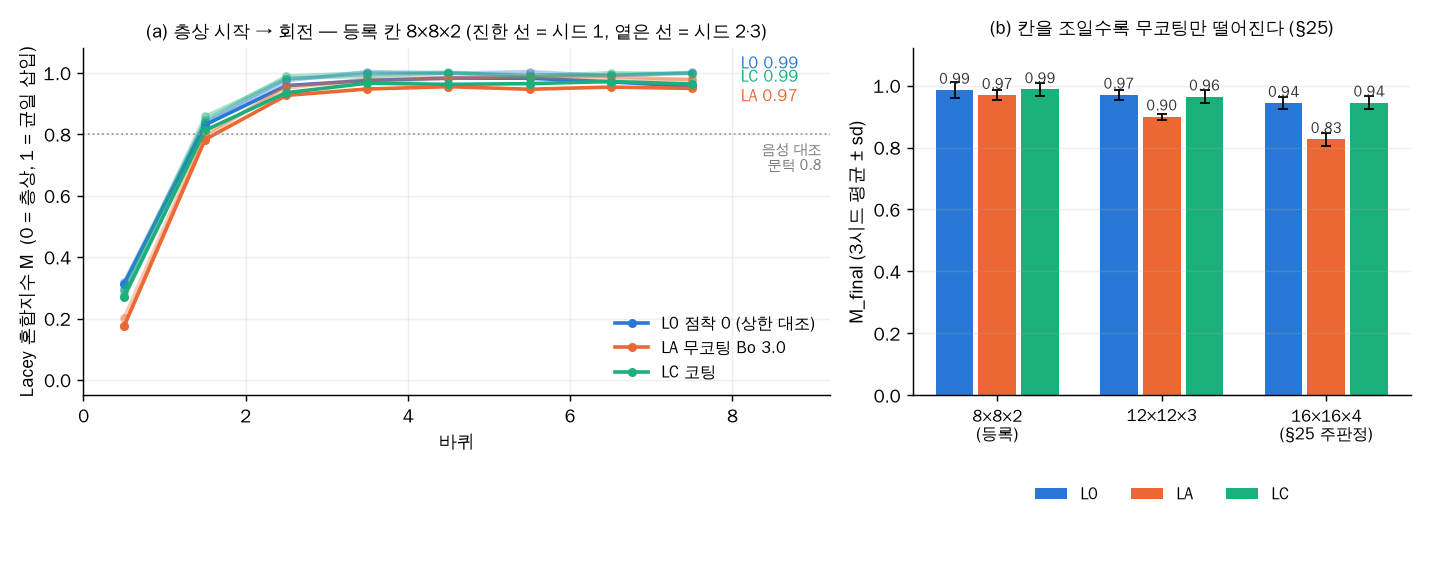
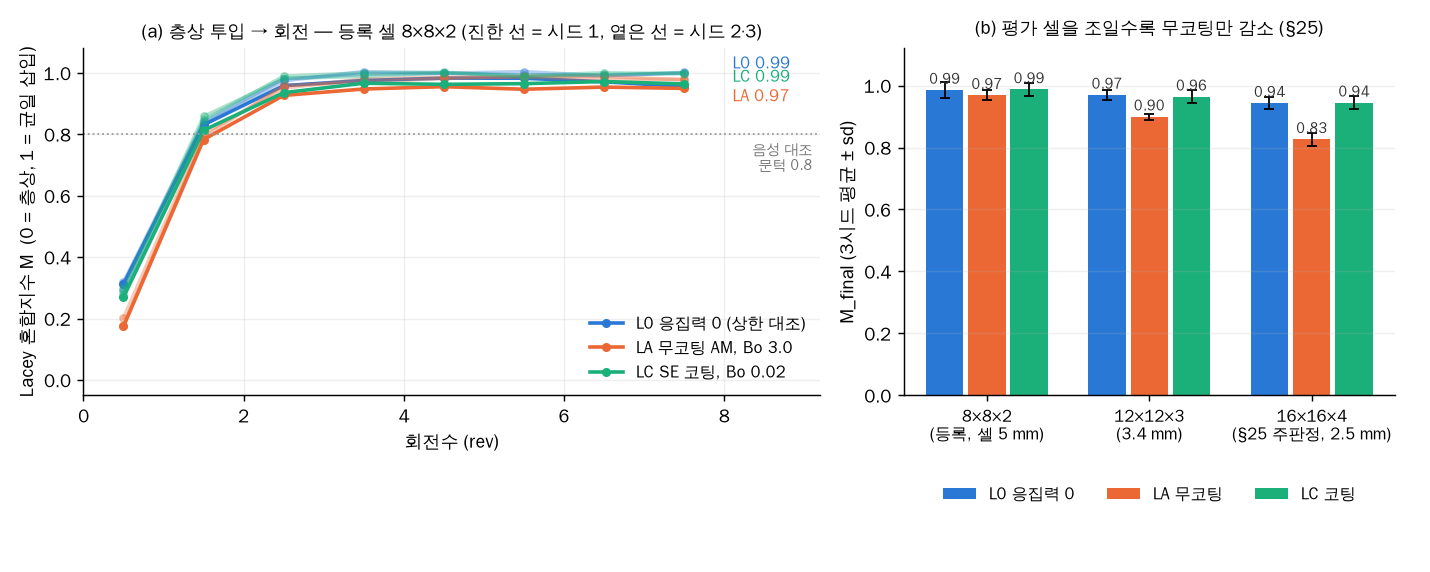
웹앱 믹서 개발 이력·주간 리포트 — 용어를 필드 규약(§19 vdW)으로 통일 + v0.8 요약 그림 + 사다리 그림 축 결함 수정
- docs/mixer_devlog v01~v07: "끈적함/덩어리/눈금·칸/섞이나" → 응집력(van der Waals 기원, SJKR) /
  응집체·플러그 / 평가 셀 / 혼합도(Lacey M). 수치·판정·한정어 불변
- docs/mixer_devlog/v08_20260921.md 신설: 용어 대응표 · vdW 물리 근거 · 코팅 배수(1/128 앵커, 1/900 E4) ·
  주간보고 요약 그림 (webapp/static/mixer/summary_v08.png = docs/figures/mixer_summary_20260920.png)
- webapp/static/mixer/ladder_HR_vs_Bo.png: 두 패널 sharex 로 위 패널 로그축이 선형으로 덮여 점이 왼쪽에
  뭉쳐 있던 표시 결함 수정(축 분리, 명시 눈금 0.01/0.1/1/10) + 필드 라벨
- webapp/static/mixer/mixing_v07.png: 라벨 필드 용어 (회전수 rev · 등록 셀 · 평가 셀 크기 5/3.4/2.5 mm)
- docs/worklog/weekly_20260920.md: 헤더·§6·그림 캡션 같은 규약으로 (9런 완주 반영)
- webapp/templates/mixer.html: 소개문 한 줄

게이트: check_all.sh --selftest RC 0 · check_all.sh RC 0 · mixer_devlog_page 9/9 · worklog_page PASS · doc_refs 0

Claude-Session: https://claude.ai/code/session_019HKnbzGsY9U5Gyw4qGqqzA

diff --git a/webapp/templates/mixer.html b/webapp/templates/mixer.html
@@ -38,7 +38,7 @@
   <h1>&#x1F300; 믹서 개발 이력</h1>
   <div class="mx-top">
     <p class="mx-note" style="margin:0;max-width:640px">
-      건식 믹싱 DEM(드럼 · 5상 · 점착 사다리)이 어떻게 발전했는지 <b>버전 누적</b>으로 본다.
+      건식 믹싱 DEM(드럼 · 5상 · 응집력(Bo) 사다리 · 층상 투입 혼합도)이 어떻게 발전했는지 <b>버전 누적</b>으로 본다.
       원본 <code>docs/mixer_devlog/vNN_YYYYMMDD.md</code> · 정본 <code>docs/reviews/mixing_model_design_20260919.md</code>.
       인용 금지값은 렌더 직전 <code>ledger_view.redact</code> 가 가린다.
     </p>

diff --git a/docs/worklog/weekly_20260920.md b/docs/worklog/weekly_20260920.md
@@ -3,8 +3,8 @@
 > **이번 주는 세 갈래가 동시에 갔다.**  ① Phase A 6 mAh 캠페인이 **봉인 이탈**(96팔이 `ptfe_stamp=off`)
 > 로 무너진 것을 진단해 재실행하고, 어댑터를 막던 영수증을 `.sh` 에서 되살리는 도구까지 놓았다.
 > ② 3라운드 갭 감사(GAP3)·LHS 코호트 130 봉인·PS 삽입 0개 사고를 **원인까지** 닫았다.
-> ③ **믹서 DEM 을 0 에서 v0.6 까지** 세웠다 — 점착 사다리로 흐름↔덩어리 경계(`Bo ≈ 0.5`)를 찾고,
-> 지금은 *"코팅하면 더 잘 섞이나"* 를 층상 시작으로 직접 재는 9런이 돌고 있다.
+> ③ **믹서 DEM 을 0 에서 v0.6 까지** 세웠다 — 응집력(Bo) 사다리로 자유 유동↔응집 전이(`Bo ≈ 0.5`)를 찾고,
+> *"코팅하면 혼합도가 오르나"* 를 층상 투입 + Lacey 혼합지수로 직접 쟀다 (9런 완주, §26).
 > 새 σ 헤드라인은 **없다**.  숫자를 낸 곳은 전부 사전등록 뒤에 냈고, 못 낸 곳은 왜 못 내는지 적었다.
 
 ## 실행 요약
@@ -52,7 +52,7 @@
 정본 `docs/reviews/mixing_model_design_20260919.md` §1~§24 · 원장 `MIX-01~10` · 웹앱 `/mixer`.
 
 - **09-19 뼈대**: 드럼(`R_d` 20.56 mm, 60 rpm, `Fr` 0.083) · 5상 80:18:1:1 · CGF 200 · SJKR.  첫 런은 네 군데가 틀렸다 — `fix multisphere` 가 평범한 구를 안 움직임(47,309개 조각상, `MIX-01`) · 지표 축 z 고정(`MIX-02`) · 정착 상수(`MIX-03`) · 점착 사다리가 접촉모델 밖(`MIX-04`).  전부 재현 테스트 먼저 놓고 고쳤다.
-- **사다리 판정 h1** (§13): AM 축 점착이 `H/R` 을 126·SE_시드 움직이고 SE 축은 1.4·SE_시드 — 뭉침은 **크고 무거운 AM 표면**이 정한다.
+- **사다리 판정 h1** (§13): AM 축 점착이 `H/R` 을 126·SE_시드 움직이고 SE 축은 1.4·SE_시드 — 응집은 **크고 무거운 AM 의 표면 부착력**이 정한다.
 - **코팅·장비·vdW** (§16~§21): 코팅(AM 표면 = SE)은 다시 흐르게 한다.  실제 장비가 Thinky(~2000 rpm)라 중력이 아니라 **점착을 1/G** 로(1저자 정정: 영률 1e7 은 스케일 팩터).  문헌 앵커 `Bo ≈ 3`(`hare2026` NMC622, CGF 200).  ⛔ 그리고 **믹싱을 잰 적이 없었다**(`MIX-08`, 침대가 처음부터 섞여 시작) — 이전 결론은 전부 유동성 축으로 라벨을 고쳤다.
 - **경계** (§22): 사다리 전수 `E0 1.491 · C1 1.569 · T1 1.527 · E1 1.573 · T2 1.750 · B5 1.855 · B10 2.006 · E2 2.020 · E4 2.016`.  답은 평균이 아니라 **요동** — 런내부 sd 가 Bo 0.47~0.50 에서 5배 봉우리 ⇒ **경계 ≈ Bo 0.5** (4점 격자, 폭 (0.21, 1.00)).  `H/R` 은 Bo ≳ 1 에서 천장(`MIX-09`).  두 벌 읽기: Thinky 1/6.3(우리 E4 기준)·1/45(앵커) · 볼텍스 0.94(E4)·1/7.5(앵커) · 코팅 1/21.  ⇒ **유동성 축에서는 Thinky 면 코팅 불요**.
 <figure>
@@ -74,13 +74,13 @@
     <text x="260" y="200" text-anchor="middle">E1 .21</text><text x="320" y="130" text-anchor="middle">T2 .47</text><text x="352" y="82" text-anchor="start">B5 .50</text>
     <text x="388" y="72" text-anchor="middle">B10 1</text><text x="440" y="70" text-anchor="middle">E2 2.1</text><text x="630" y="70" text-anchor="middle">E4 21</text>
   </g>
-  <text x="336" y="24" font-size="9.5" text-anchor="middle" fill="#d95926">요동 최대 (런내부 sd ×5)</text>
+  <text x="336" y="24" font-size="9.5" text-anchor="middle" fill="#d95926">런내부 변동 최대 (sd ×5)</text>
 </svg>
-<figcaption>믹서 점착 사다리 (§22, 시드 3 평균). 흐름(H/R ≈ 1.5) → 전이(Bo 0.21~1.00, 요동 최대 Bo 0.47~0.50) → 덩어리(H/R 천장 ≈ 2.02). 코팅 C1 과 Thinky T1 은 전이 아래, 문헌 앵커 NMC(Bo ≈ 3)는 위.</figcaption>
+<figcaption>믹서 응집력(Bo) 사다리 (§22, 시드 3 평균). 자유 유동(H/R ≈ 1.5) → 전이(Bo 0.21~1.00, 런내부 변동 최대 Bo 0.47~0.50) → 응집체(H/R 천장 ≈ 2.02). 코팅 C1 과 Thinky T1 은 전이 아래, 문헌 앵커 NMC(Bo ≈ 3)는 위.</figcaption>
 </figure>
 
-- **자기리뷰** (§23): 축은 맞았고 **순서가 틀렸다** — "섞이나"와 "장비가 뭔가"를 먼저 물었으면 128팔이 믹싱 지수를 같이 냈고 배플 12팔은 없었다.  `Bo` 정의가 문헌(JKR pull-off)과 다르다(`MIX-07` 추기) · 경계 0.5 는 충전율 9.8 %·Fr 한 점(`MIX-10`).  PTFE·VGCF 는 영률·마찰·점착 전 상 공통 + 강체 사슬 = **수동 필러** — PTFE 피브릴화는 LIGGGHTS 강체로 불가(LAMMPS 결합 사슬은 보고 뒤 병행).
-- **v0.6 진행 중** (§24, 1저자 비준): 헤드라인 = *"코팅하면 더 잘 섞이나"*.  층상 시작(아래 AM · 위 SE+섬유), `LA` 무코팅 Bo 3.0(앵커) vs `LC` 코팅 vs `L0`, 시드 3 · 8바퀴 · Lacey `M`.  스모크에서 RSA 잼 결함을 잡아 삽입 순서를 재설계(AM 원통 전체→정착→SE 를 위에), `S₀² = 10 × S_R²`, `M(t0) = 0` 확인.  **9런 완주 → 판정(§26)**: 등록 칸(5 mm)에선 코팅↔무코팅 차이 0.02(애매), 사전등록 칸 사다리 주판정(2.5 mm)에서 **Δ 0.12 = h1** — 무코팅 Bo 3.0 은 몇 알짜리 AM 덩어리를 남기고 코팅은 점착 0 과 같다.
+- **자기리뷰** (§23): 축은 맞았고 **순서가 틀렸다** — "혼합되는가"와 "실제 장비가 무엇인가"를 먼저 물었으면 128팔이 혼합지수를 같이 냈고 배플 12팔은 없었다.  `Bo` 정의가 문헌(JKR pull-off)과 다르다(`MIX-07` 추기) · 경계 0.5 는 충전율 9.8 %·Fr 한 점(`MIX-10`).  PTFE·VGCF 는 영률·마찰·점착 전 상 공통 + 강체 사슬 = **수동 필러** — PTFE 피브릴화는 LIGGGHTS 강체로 불가(LAMMPS 결합 사슬은 보고 뒤 병행).
+- **v0.6 진행 중** (§24, 1저자 비준): 헤드라인 = *"코팅하면 혼합도가 오르나"*.  층상 투입(아래 AM · 위 SE+VGCF+PTFE), `LA` 무코팅 Bo 3.0(앵커) vs `LC` 코팅 vs `L0`, 시드 3 · 8바퀴 · Lacey `M`.  스모크에서 RSA 잼 결함을 잡아 삽입 순서를 재설계(AM 원통 전체→정착→SE 를 위에), `S₀² = 10 × S_R²`, `M(t0) = 0` 확인.  **9런 완주 → 판정(§26)**: 등록 칸(5 mm)에선 코팅↔무코팅 차이 0.02(애매), 사전등록 칸 사다리 주판정(2.5 mm)에서 **Δ 0.12 = h1** — 무코팅 Bo 3.0 은 입자 몇 개 규모의 AM 응집체를 남기고 코팅은 응집력 0 과 같다.
 
 ## 7. 웹앱
 

diff --git a/docs/mixer_devlog/v07_20260920.md b/docs/mixer_devlog/v07_20260920.md
@@ -1,24 +1,24 @@
-# v0.7 — 처음으로 "섞이나"를 쟀다: 코팅은 덩어리를 푼다 (2026-09-20 밤)
+# v0.7 — 처음으로 혼합도를 쟀다: 코팅은 입자 스케일 응집체를 해소한다 (2026-09-20 밤)
 
-> 9런 완주. 침대 규모에선 코팅이나 무코팅이나 8바퀴면 다 섞이지만, **AM 한 개 크기 규모에서는 무코팅만 덩어리가 남고 코팅은 점착 0 과 같다** (사전등록 §25, h1, Δ 0.12).
+> 9런 완주. 거시 스케일에선 코팅·무코팅 모두 8 rev 에 완전 혼합에 이르지만, **AM 입자 스케일에서는 무코팅만 응집체가 잔존하고 코팅은 응집력 0 과 같다** (사전등록 §25, h1, ΔM 0.12).
 
 ## 쉬운 판
 
-아래에 활물질, 위에 전해질을 층으로 넣고 8바퀴 돌리며 얼마나 섞였는지(0 = 안 섞임, 1 = 완전 혼합)를 셌다.
-큰 눈금(5 mm 칸)으로 보면 셋 다 0.97~0.99 로 **다 섞인다** — 여기서는 코팅 효과가 안 보인다.
-그런데 눈금을 활물질 한 알 크기(2.5 mm)로 조이면, **무코팅은 0.83 에서 멈추고 코팅은 0.95** 로 점착 없는
-경우와 같다. 즉 끈적한 활물질은 몇 알짜리 **작은 덩어리**를 8바퀴 뒤에도 남기고, 코팅은 그걸 푼다.
+아래에 AM 층, 위에 SE 층으로 투입하고 8 rev 회전시키며 Lacey 혼합지수 M(0 = 층상 그대로, 1 = 완전 혼합)을 쟀다.
+거시 평가 셀(5 mm)로 보면 세 조건 모두 0.97~0.99 로 **완전 혼합에 가깝다** — 여기서는 코팅 효과가 보이지 않는다.
+그런데 평가 셀을 AM 입자 스케일(2.5 mm)로 조이면, **무코팅은 M 0.83 에서 멈추고 코팅은 0.95** 로 응집력 0 인
+기준 조건과 같다. 즉 무코팅 AM(Bo 3)은 입자 몇 개 규모의 **응집체**를 8 rev 뒤에도 남기고, 코팅은 그것을 해소한다.
 
-이 눈금은 첫 시드를 보고 고른 것이라, 나머지 두 시드를 **열기 전에** 판정선을 등록해 두고 열었다. 그 둘만으로도
+이 평가 셀은 첫 시드를 보고 고른 것이라, 나머지 두 시드를 **열기 전에** 판정선을 등록해 두고 열었다. 그 둘만으로도
 같은 결론이다.
 
-<figure><img src="/static/mixer/mixing_v07.png" alt="M(t) 곡선과 칸 사다리"><figcaption>(a) 바퀴별 혼합지수 — 셋 다 2~3바퀴면 포화. (b) 칸을 조일수록 무코팅(주황)만 떨어진다; 점착 0(파랑)과 코팅(아쿠아)은 유지.</figcaption></figure>
+<figure><img src="/static/mixer/mixing_v07.png" alt="M(t) 곡선과 셀 사다리"><figcaption>(a) rev 별 Lacey 혼합지수 — 세 조건 모두 2~3 rev 에 포화. (b) 평가 셀을 조일수록 무코팅(주황)만 감소; 응집력 0(파랑)과 코팅(아쿠아)은 유지.</figcaption></figure>
 
 ## 자세한 판
 
-- §24 등록 칸 8×8×2: `L0` 0.986 · `LA` 0.969 · `LC` 0.987, `LC−LA` +0.019 (SE 0.011) → **애매**(h1 문턱 0.30 미달). 음성대조·바닥 통과.
-- §25 칸 사다리 (시드 2·3 미열람 등록, 주판정 16×16×4/6): `L0` 0.943 · `LA` **0.826** · `LC` 0.945, `LC−LA` **+0.118** (SE 0.012) → **h1**; 미열람 시드 2·3 만 +0.114 (SE 0.020) → h1. `LA` 단조 감소 0.969→0.900→0.826, `L0`/`LC` ≥ 0.90 전 칸.
-- 입자 규모 AA/AS 는 9런 전부 0.23~0.27(균일 기준 0.266) — 접촉 규모에선 완전 분산. 효과는 **중간 규모**에 있다.
-- 기준 `S_R²` = 같은 시드의 균일 삽입 `E0`(시드 2·3 은 2바퀴 신규, 원자 7999 vs 8002).
-- 한정어: 칸은 시드 1 을 보고 골랐다(설계 실수로 기록) · 저-G 드럼 조건 · `Bo 3.0` 정의 O(1) · PTFE/VGCF 수동 필러 · 절대 `M` 은 칸 간 비교 불가.
-- 원장: `MIX-08`(믹싱을 잰 적 없음) → claimed_fixed.
+- §24 등록 셀 8×8×2: `L0` 0.986 · `LA` 0.969 · `LC` 0.987, `LC−LA` +0.019 (SE 0.011) → **애매**(h1 문턱 0.30 미달). 음성대조·바닥 통과.
+- §25 셀 사다리 (시드 2·3 미열람 등록, 주판정 16×16×4/6): `L0` 0.943 · `LA` **0.826** · `LC` 0.945, `LC−LA` **+0.118** (SE 0.012) → **h1**; 미열람 시드 2·3 만 +0.114 (SE 0.020) → h1. `LA` 단조 감소 0.969→0.900→0.826, `L0`/`LC` ≥ 0.90 전 셀.
+- 접촉 스케일 AA/AS 는 9런 전부 0.23~0.27(균일 기준 0.266) — 접촉 스케일에선 완전 분산. 효과는 **중간 스케일(입자 몇 개)** 에 있다.
+- 기준 `S_R²` = 같은 시드의 균일 삽입 `E0`(시드 2·3 은 2 rev 신규, 원자 7999 vs 8002).
+- 한정어: 셀은 시드 1 을 보고 골랐다(설계 실수로 기록) · 저-G 드럼 조건 · `Bo 3.0` 정의 O(1) · PTFE/VGCF 수동 필러 · 절대 `M` 은 셀 간 비교 불가.
+- 원장: `MIX-08`(혼합도를 잰 적 없음) → claimed_fixed.

diff --git a/docs/mixer_devlog/v03_20260920.md b/docs/mixer_devlog/v03_20260920.md
@@ -1,25 +1,25 @@
-# v0.3 — 코팅 · 실제 장비(Thinky) · 반데르발스로 다시 세우기 (2026-09-20)
+# v0.3 — 코팅 · 실제 장비(Thinky) · van der Waals 로 다시 세우기 (2026-09-20)
 
-> 코팅은 침대를 다시 흐르게 한다. Thinky(268 G) 는 코팅 없이도 흐른다. **그리고 우리는 "섞이나"를 아직 잰 적이 없었다.**
+> 코팅은 침대의 유동성을 회복시킨다. Thinky(268 G) 는 코팅 없이도 유동한다. **그리고 우리는 혼합도를 아직 잰 적이 없었다.**
 
 ## 쉬운 판
 
-세 가지를 한 번에 했다. ① 활물질 표면을 황화물로 코팅하면(표면이 전해질처럼 됨) 덩어리가 풀려
-**다시 흐른다**. ② 실제로 쓰는 장비는 60 rpm 드럼이 아니라 **Thinky(약 2000 rpm)** 라는 것을
-알게 돼서, 중력 대신 점착을 1/268 로 낮춰 같은 물리로 맞췄다 — Thinky 조건에선 코팅 없이도 흐른다.
-③ "끈적하다"는 말을 **반데르발스/표면에너지**로 바꾸고 문헌(`hare2026`, NMC622 · CGF 200)에서
-`Bo ≈ 3` 앵커를 찾았다.
+세 가지를 한 번에 했다. ① AM 표면을 황화물 SE 로 코팅하면(표면 물성이 SE 가 됨) 응집체가 풀려
+**자유 유동으로 돌아온다**. ② 실제 공정 장비는 60 rpm 드럼이 아니라 **Thinky 자전·공전 믹서(약 2000 rpm, 268 G)** 라는 것을
+확인해, 중력을 올리는 대신 Bo 를 1/268 로 낮춰 같은 무차원 물리로 맞췄다 — Thinky 조건에선 코팅 없이도 유동한다.
+③ 응집력의 기원을 **van der Waals 분산력(표면에너지 γ, Hamaker 상수)** 으로 명시하고, 문헌(`hare2026`, NMC622 · CGF 200)에서
+`Bo ≈ 3` 앵커를 찾았다. 우리 모델은 JKR 이 아니라 SJKR 이므로 γ 를 직접 넣지 않고 **Bo 로 앵커**한다.
 
 그런데 이 시점에 1저자 질문 *"우리가 보고 싶은 걸 볼 수 있는 거야?"* 로 큰 구멍이 드러났다:
-침대를 **처음부터 섞인 상태로 넣고** 돌렸기 때문에, 지금까지 잰 건 "뭉치나/흐르나"이지
-**"섞이나"가 아니었다**. 이건 v0.6 에서 고친다.
+침대를 **처음부터 균일 혼합 상태로 삽입**하고 회전시켰기 때문에, 지금까지 잰 것은 유동성(응집 여부)이지
+**혼합도가 아니었다**. 이것은 v0.6 에서 고친다.
 
-<figure><img src="/static/mixer/bed_C1.png" alt="C1"><figcaption>C1 코팅 — 흐른다.</figcaption></figure>
-<figure><img src="/static/mixer/bed_T1.png" alt="T1"><figcaption>T1 Thinky 268 G 조건 — 흐른다.</figcaption></figure>
+<figure><img src="/static/mixer/bed_C1.png" alt="C1"><figcaption>C1 SE 코팅 — 자유 유동.</figcaption></figure>
+<figure><img src="/static/mixer/bed_T1.png" alt="T1"><figcaption>T1 Thinky 268 G 조건 — 자유 유동.</figcaption></figure>
 
 ## 자세한 판
 
 - 코팅 `C1`: AM 쌍 CED 를 SE-SE 값으로 **덮어쓴다**(입자 크기·질량 불변 → `Bo` 는 따라 나온다). 결과 `Bo` 0.0235. 등록 검정은 `E1` 대비 h0(0.57·SE)이나 `E4→C1` 로는 범위의 85 % 회복, `core_frac` ×1/24.
 - 고-G: 1저자 정정 — 영률 1e7 은 임의 연화가 아니라 **스케일 팩터**(압축 덱이 `P/E` 를 보존). 중력을 올리면 `Π₁ = ρaR/E` 가 5.7e-6 → 1.5e-3 로 실제(5.4e-10)에서 **멀어진다** ⇒ `Bo` 만 1/G. `T1`(Thinky, Bo 0.079) 1.527 · `T2`(볼텍스 45 G, Bo 0.472) 1.750 · `E4` 2.016 — 단조.
 - vdW 재정박: `hare2026` γ 0.25 J/m² → Bo 3.0, `frankenberg2024` Γ 0.0045 → Bo 3.3. γ 는 55배 달라도 Bo 는 같은 대역 ⇒ 전이 대상은 **Bo**. ⚠ 우리는 SJKR 이라 γ 를 못 넣고 `MIX-07` 로 등재.
-- `MIX-08`(P1): 삽입이 `insert/pack … once` 로 5 상을 한꺼번에 무작위 배치 → t=0 이 이미 완전혼합(칸별 AM 분율 sd 0.0383). **"섞이나"는 잰 적 없음.** 이 이전의 모든 결론은 유동성 축으로 라벨을 고쳤다.
+- `MIX-08`(P1): 삽입이 `insert/pack … once` 로 5 상을 한꺼번에 무작위 배치 → t=0 이 이미 완전혼합(셀별 AM 분율 sd 0.0383). **혼합도는 잰 적 없음.** 이 이전의 모든 결론은 유동성 축으로 라벨을 고쳤다.

diff --git a/docs/mixer_devlog/v04_20260920.md b/docs/mixer_devlog/v04_20260920.md
@@ -1,25 +1,25 @@
-# v0.4 — 경계를 찾다: 전이는 Bo ≈ 0.5 (2026-09-20)
+# v0.4 — 전이점을 찾다: 자유 유동 → 응집 전이는 Bo ≈ 0.5 (2026-09-20)
 
-> 흐름 → 덩어리의 경계가 **Bo ≈ 0.5**. 그 자에 놓으면 Thinky 는 6배 여유, 코팅은 21배 여유, 볼텍스는 경계 위.
+> 자유 유동 → 응집체의 전이가 **Bo ≈ 0.5**. 이 척도에서 Thinky 는 6배 여유, 코팅은 21배 여유, 볼텍스는 전이 위.
 
 ## 쉬운 판
 
-끈적함을 조금씩 올리며 어디서부터 덩어리가 되는지 찾았다. 답을 준 건 평균이 아니라 **흔들림**이었다 —
-경계 근처(Bo 0.47~0.5)에서는 같은 조건인데 어떤 시드는 흐르고 어떤 시드는 뭉쳐서, 산포가 5배로 튄다.
-그 위(Bo 1)에서는 다시 조용해진다(전부 뭉침). 그래서 경계는 **Bo ≈ 0.5**.
+Bo 를 단계적으로 올리며 어디서부터 침대가 응집체로 바뀌는지 찾았다. 답을 준 것은 평균이 아니라 **런내부 변동**이었다 —
+전이 근처(Bo 0.47~0.5)에서는 같은 조건인데 어떤 시드는 유동하고 어떤 시드는 응집해, 변동이 5배로 뛴다.
+그 위(Bo 1)에서는 다시 조용해진다(전부 응집). 그래서 전이점은 **Bo ≈ 0.5**.
 
-이 자에 장비를 놓으면: **Thinky 는 안전(6배 아래)**, 코팅도 안전(21배 아래), 볼텍스는 우리 팔 기준으론
-경계 위지만 문헌 앵커 기준이면 7.5배 여유 — 두 벌로 읽어야 한다. 그리고 **코팅은 유동성 축에서는
-필요 없다는 결과**가 나왔다: Thinky 면 코팅 없이도 안 뭉친다. (⇒ 코팅의 진짜 값은 "섞이나" 축에 있어야
+이 척도에 장비를 놓으면: **Thinky 는 안전(6배 아래)**, 코팅도 안전(21배 아래), 볼텍스는 우리 팔 기준으론
+전이 위지만 문헌 앵커 기준이면 7.5배 여유 — 두 기준으로 읽어야 한다. 그리고 **유동성 축에서는 코팅이
+필요 없다는 결과**가 나왔다: Thinky 조건이면 코팅 없이도 응집하지 않는다. (⇒ 코팅의 진짜 값은 혼합도 축에 있어야
 한다 — v0.6)
 
-<figure><img src="/static/mixer/ladder_HR_vs_Bo.png" alt="H/R vs Bo 사다리"><figcaption>위: 점착 사다리 전수(시드 3, 오차막대 = 시드 sd). 노란 띠 = 전이 구간 (0.21, 1.00). 아래: 런내부 sd — Bo 0.47~0.50 에서 5배 봉우리.</figcaption></figure>
-<figure><img src="/static/mixer/bed_B5.png" alt="B5"><figcaption>B5 (Bo 0.5) — 경계 위의 침대. 시드마다 다르게 나온다.</figcaption></figure>
+<figure><img src="/static/mixer/ladder_HR_vs_Bo.png" alt="H/R vs Bo 사다리"><figcaption>위: 응집력 사다리 전수(시드 3, 오차막대 = 시드 sd). 노란 띠 = 전이 구간 (0.21, 1.00). 아래: 런내부 sd — Bo 0.47~0.50 에서 5배 봉우리.</figcaption></figure>
+<figure><img src="/static/mixer/bed_B5.png" alt="B5"><figcaption>B5 (Bo 0.5) — 전이점 위의 침대. 시드마다 다르게 나온다.</figcaption></figure>
 
 ## 자세한 판
 
 - 사다리(측정 규약 `--r-container 0.02056 --axis x --last 100`): E0 1.4911 · C1 1.5686 · T1 1.5271 · E1 1.5729 · T2 1.7499 · **B5 1.8552(시드 sd 0.0975)** · B10 2.0061 · E2 2.0197 · E4 2.0164.
 - 런내부 sd: 0.0196 → 0.0375 → **0.1880 · 0.1719** → 0.0335 → 0.0046 → 0.0036 — 비단조, 봉우리 Bo 0.47~0.50. ⛔ 격자 4점이라 "0.5" 는 봉우리 두 점이고 폭은 (0.21, 1.00) 까지만.
 - `MIX-09`(P2): `H/R` 은 Bo ≳ 1 에서 천장(2.006 / 2.020 / 2.016, Bo 21배에 0.7 %). 같은 구간 `core_frac` 0.129 → 0.210 → 1.599(12배). ⇒ Bo ≳ 1 보고는 `core_frac` 으로.
-- 두 벌 읽기: 우리 `E4` 점착은 앵커의 7.08배. Thinky 1/6.3(보수)·1/45(앵커) · 볼텍스 0.94배(보수)·1/7.5(앵커) · 코팅 1/21 · 앵커 NMC 드럼 6배 초과.
+- 두 기준 읽기: 우리 `E4` 응집력은 앵커의 7.08배. Thinky 1/6.3(보수)·1/45(앵커) · 볼텍스 0.94배(보수)·1/7.5(앵커) · 코팅 1/21 · 앵커 NMC 드럼 6배 초과.
 - 코팅 감소 배수 **128배(앵커) / 900배(E4)** — Thinky 면 코팅 없이도 6.3배 아래 ⇒ 유동성 축에서 코팅 불요.

diff --git a/docs/mixer_devlog/v06_20260920.md b/docs/mixer_devlog/v06_20260920.md
@@ -1,24 +1,24 @@
-# v0.6 — 드디어 "섞이나"를 잰다: 층상 시작 + Lacey (2026-09-20)
+# v0.6 — 드디어 혼합도를 잰다: 층상 투입 + Lacey 혼합지수 (2026-09-20)
 
-> 헤드라인을 **"코팅하면 더 잘 섞인다"** 로. 무코팅(Bo 3.0, 문헌 앵커) vs 코팅, 층으로 넣고 8바퀴. 스모크 통과, 본 런 9개 대기.
+> 헤드라인을 **"코팅하면 혼합도가 오른다"** 로. 무코팅(Bo 3.0, 문헌 앵커) vs 코팅, 층상 투입 후 8 rev. 스모크 통과, 본 런 9개 대기.
 
 ## 쉬운 판
 
-1저자 비준으로 방향을 정했다: 응집체가 깨지는 과정 얘기는 빼고, **"코팅하면 더 잘 섞이나"가 가장 극적으로
-보이는 조건**을 보여 준다. 그러려면 무코팅이 섞이기 어려운 조건이어야 하니, 경계 위인 **문헌 앵커
-Bo 3.0(저-G 믹서에서의 실제 NMC)** 을 무코팅으로 쓴다.
+1저자 비준으로 방향을 정했다: 응집체 파괴 과정은 빼고, **"코팅하면 혼합도가 오르나"가 가장 극적으로
+보이는 조건**을 보여 준다. 그러려면 무코팅이 혼합되기 어려운 조건이어야 하니, 전이점 위인 **문헌 앵커
+Bo 3.0(저-G 믹서에서의 실제 NMC 수준)** 을 무코팅 조건으로 쓴다.
 
-이번엔 처음부터 섞어 넣지 않는다. **아래에 활물질, 위에 전해질+섬유**를 층으로 넣고 돌리면서
-얼마나 빨리 섞이는지(Lacey 지수, 0 = 안 섞임, 1 = 완전 혼합)를 바퀴마다 잰다.
-시험 런에서 층이 제대로 만들어졌고(분리 지표가 무작위의 10배), 회전 시작 직후 지수가 0 인 것을 확인했다.
+이번엔 처음부터 균일 혼합으로 삽입하지 않는다. **아래에 AM 층, 위에 SE+VGCF+PTFE 층**으로 투입하고 회전시키면서
+혼합도(Lacey 혼합지수 M, 0 = 층상 그대로, 1 = 완전 혼합)를 매 rev 마다 잰다.
+스모크 런에서 층이 제대로 형성됐고(층상 분리 지표가 균일 삽입의 10배), 회전 시작 직후 M = 0 인 것을 확인했다.
 
-<figure><img src="/static/mixer/bed_smoke_LA.png" alt="층상 시작"><figcaption>층상 시작(스모크 런, 회전 직후): 아래 AM(회색), 위 SE+섬유. 여기서부터 섞임을 센다.</figcaption></figure>
+<figure><img src="/static/mixer/bed_smoke_LA.png" alt="층상 투입"><figcaption>층상 투입(스모크 런, 회전 직후): 아래 AM(회색), 위 SE+VGCF+PTFE. 여기서부터 혼합도를 잰다.</figcaption></figure>
 
 ## 자세한 판
 
-- 사전등록 §24: 팔 `LA`(무코팅 Bo 3.0) · `LC`(코팅 0.0235) · `L0`(Bo 0, 지표 상한) × 시드 3, 8바퀴(예산 ≈ 6.5 h, 4병렬).
+- 사전등록 §24: 팔 `LA`(무코팅 Bo 3.0) · `LC`(코팅 0.0235) · `L0`(Bo 0, 지표 상한) × 시드 3, 8 rev(예산 ≈ 6.5 h, 4병렬).
 - 삽입: AM 은 원통 전체에 넣고 정착 ① 로 바닥에 → SE+VGCF+PTFE 를 AM 침대 윗면(세그먼트 추정 z_top −10.57 mm) 위 블록 [−8.17, 16.04] mm 에 넣고 정착 ②. ⚠ 첫 설계(작은 아래 블록)는 AM_P 삽입 밀도 59 % 로 RSA 잼 → 스모크에서 잡아 재설계.
-- 지표 `M(t) = (S₀² − S²)/(S₀² − S_R²)`: 칸 (y,z) 8×8 × x 2, AM **부피분율**, `S₀²` 같은 런 정착 끝, `S_R²` 균일 삽입 팔(E0) 실측. 스모크: `S₀² 0.1768 · S_R² 0.0169 · M(t0) 0.000`.
+- 지표 `M(t) = (S₀² − S²)/(S₀² − S_R²)`: 평가 셀 (y,z) 8×8 × x 2, AM **부피분율**, `S₀²` 같은 런 정착 끝, `S_R²` 균일 삽입 팔(E0) 실측. 스모크: `S₀² 0.1768 · S_R² 0.0169 · M(t0) 0.000`.
 - 판정선(런 전): h1 `M_final(LC) − M_final(LA) ≥ 0.30 ∧ ≥ 2·SE_시드` · h0 `≤ 1·SE` · 음성대조 `M_final(L0) ≥ 0.8` 아니면 HOLD.
-- 한정어(미리): 저-G(드럼) 조건의 대비 · Bo 3.0 앵커는 정의 차이로 O(1) · PTFE/VGCF 수동 필러 · `M` 은 CG 입자 규모.
+- 한정어(미리): 저-G(드럼) 조건의 대비 · Bo 3.0 앵커는 정의 차이로 O(1) · PTFE/VGCF 수동 필러 · `M` 은 CG 입자 스케일.
 - 도구: `make_mixer_deck.py`(L0/LA/LC, 셀프테스트 67/67, 기존 팔 골든 해시 불변) · `measure_mixing_index.py`(11/11).

diff --git a/docs/mixer_devlog/v01_20260919.md b/docs/mixer_devlog/v01_20260919.md
@@ -1,23 +1,23 @@
 # v0.1 — 믹서 모델의 뼈대를 세우다 (2026-09-19)
 
-> 드럼 + 5상(AM_P·AM_S·SE·VGCF·PTFE) + 점착 모델. 첫 런은 **네 군데가 틀려 있었다** — 전부 잡았다.
+> 드럼 + 5상(AM_P·AM_S·SE·VGCF·PTFE) + 응집력(SJKR 접촉 부착) 모델. 첫 런은 **네 군데가 틀려 있었다** — 전부 잡았다.
 
 ## 쉬운 판
 
-전극 재료를 통에 넣고 돌리는 시뮬레이션을 처음 만들었다. 재료는 다섯 가지(큰 활물질, 작은 활물질,
-고체전해질, 탄소섬유, PTFE), 크기는 실제의 200배로 키워서(코스그레이닝) 계산이 되게 했다.
-"끈적함"은 표면 점착 모델(SJKR)로 넣었다.
+전극 분체를 드럼에 넣고 회전시키는 건식 믹싱 DEM 을 처음 세웠다. 상은 다섯 가지(AM_P 대입자 활물질, AM_S 소입자 활물질,
+고체전해질 SE, VGCF 탄소섬유, PTFE 바인더)이고, 입자는 coarse-graining(CGF 200)으로 실제의 200배 크기로 키워 계산이 되게 했다.
+입자 간 응집력은 van der Waals 기원 부착력을 SJKR 접촉 모델(`F = CED × 접촉면적`)로 넣었다.
 
-첫 번째로 돌린 결과는 **믿을 수 없는 것**이었다 — 4만 7천 개 입자가 **한 발짝도 안 움직였다**
-(적분기가 섬유만 움직이고 공은 안 움직였다). 그 밖에도 통의 축을 잘못 잡고, 정착 시간을 상수로
-박고, 점착 사다리가 접촉모델 밖으로 나가 있었다. 네 개 다 고쳤고, 고칠 때마다 **재현 테스트를 먼저**
+첫 런 결과는 **믿을 수 없는 것**이었다 — 4만 7천 개 입자가 **한 발짝도 안 움직였다**
+(적분기가 섬유 강체만 적분하고 구형 입자는 적분하지 않았다). 그 밖에도 드럼 축을 잘못 잡았고, 정착 시간을 상수로
+박았고, 응집력 사다리가 접촉모델 유효 범위 밖에 있었다. 네 개 다 고쳤고, 고칠 때마다 **재현 테스트를 먼저**
 넣었다.
 
-<figure><img src="/static/mixer/bed_E0.png" alt="점착 0 침대 단면"><figcaption>점착 0(E0) 침대의 (y,z) 단면 — 마지막 한 바퀴. 색: 회색 AM, 베이지 SE, 파랑 VGCF, 빨강 PTFE.</figcaption></figure>
+<figure><img src="/static/mixer/bed_E0.png" alt="응집력 0 침대 단면"><figcaption>응집력 0(E0) 침대의 (y,z) 횡단면 — 마지막 1 rev. 색: 회색 AM, 베이지 SE, 파랑 VGCF, 빨강 PTFE.</figcaption></figure>
 
 ## 자세한 판
 
 - 기하·조성: 드럼 `R_d` 20.56 mm(STL 스케일) · 60 rpm(임계 208 rpm, `Fr` 0.083) · `AM:SE:VGCF:PTFE = 80:18:1:1 wt%`, `P:S 7:3` · CGF 200 · 원자 ≈ 8,000.
-- 점착: LIGGGHTS-PUBLIC 엔 JKR 이 없어 **SJKR**(`F = CED·A`, `A ≈ πRδ`). 평형 겹침 `δ ∝ CED²`, 따라서 `Bo ∝ CED³`.
+- 응집력: LIGGGHTS-PUBLIC 엔 JKR 이 없어 **SJKR**(`F = CED·A`, `A ≈ πRδ`). 평형 겹침 `δ ∝ CED²`, 따라서 `Bo ∝ CED³`.
 - 잡은 결함(원장): `MIX-01` `fix multisphere` 는 강체만 적분 → `fix nve/sphere` 추가(이중적분 없음을 섬유 궤적 부동소수점 동일로 확인) · `MIX-02` 지표 축이 z 로 박혀 있었다(가로 드럼은 x) · `MIX-03` `steps_fill=20000` 상수 → 낙하시간에서 유도 · `MIX-04` `CED0×{1,10,100}` 사다리는 5팔 중 4팔이 겹침 천장 밖 → Bond 사다리로 재설계(`BOND0` 를 천장 1 % 에서 닫힌형으로).
-- 지표: 침대 종횡비 `H/R`(마지막 한 바퀴 100 프레임 평균, 시드 3) + 접촉 유효성 게이트(겹침 중앙 <1 %, 최대 <50 %, 원자 손실 <1 %).
+- 지표: 침대 종횡비 `H/R`(마지막 1 rev 100 프레임 평균, 시드 3) + 접촉 유효성 게이트(겹침 중앙 <1 %, 최대 <50 %, 원자 손실 <1 %).

diff --git a/docs/mixer_devlog/v02_20260920.md b/docs/mixer_devlog/v02_20260920.md
@@ -1,19 +1,19 @@
-# v0.2 — 점착 사다리: 어느 상이 끈적해야 뭉치나 (2026-09-20 새벽)
+# v0.2 — 응집력 사다리: 어느 상의 응집력이 침대를 응집시키나 (2026-09-20 새벽)
 
-> 판정 **h1** — AM 을 끈적하게 하면 침대가 덩어리로 돈다(126·SE_시드), SE 를 끈적하게 해도 거의 안 변한다(1.4·SE_시드).
+> 판정 **h1** — AM 의 응집력을 올리면 침대가 응집체(플러그)로 강체 회전한다(126·SE_시드), SE 의 응집력을 올려도 거의 안 변한다(1.4·SE_시드).
 
 ## 쉬운 판
 
-같은 통에서 "활물질끼리만 끈적하게" 한 경우와 "전해질끼리만 끈적하게" 한 경우를 비교했다.
-활물질이 끈적하면 침대가 **덩어리째로 돌고**, 전해질이 끈적하면 **거의 그대로 흐른다**.
-즉 뭉침을 결정하는 건 **크고 무거운 활물질의 표면**이다. 이게 이후 "코팅" 질문의 출발점이 됐다.
+같은 드럼에서 "AM 쌍에만 응집력을 준" 경우와 "SE 쌍에만 응집력을 준" 경우를 비교했다.
+AM 의 응집력이 크면 침대가 **응집체째로 강체 회전**하고, SE 의 응집력이 크면 **거의 그대로 자유 유동**한다.
+즉 침대의 응집 여부를 결정하는 것은 **크고 무거운 AM 의 표면 부착력**이다. 이것이 이후 "코팅" 질문의 출발점이 됐다.
 
-<figure><img src="/static/mixer/bed_E1.png" alt="E1"><figcaption>E1 (전 상 Bo 0.21) — 흐른다.</figcaption></figure>
-<figure><img src="/static/mixer/bed_E4.png" alt="E4"><figcaption>E4 (AM 만 Bo 21) — 덩어리로 벽을 두른다.</figcaption></figure>
+<figure><img src="/static/mixer/bed_E1.png" alt="E1"><figcaption>E1 (전 상 Bo 0.21) — 자유 유동.</figcaption></figure>
+<figure><img src="/static/mixer/bed_E4.png" alt="E4"><figcaption>E4 (AM 만 Bo 21) — 응집체가 드럼 벽을 따라 강체 회전.</figcaption></figure>
 
 ## 자세한 판
 
-- 팔: `E0`(점착 0) · `E1`(전 상 Bo 0.21) · `E2`(AM ×10) · `E3`(SE ×10) · `E4`(AM ×100). 시드 3.
+- 팔: `E0`(응집력 0) · `E1`(전 상 Bo 0.21) · `E2`(AM ×10) · `E3`(SE ×10) · `E4`(AM ×100). 시드 3.
 - 결과 `H/R`: E0 1.491 · E1 1.573 · E2 2.020 · E3 1.578 · E4 2.016. AM 축 이동 **126.6·SE_시드**, SE 축 **1.4·SE_시드** ⇒ 사전등록 h1.
-- 잡은 결함: `MIX-05` 접촉 유효성 게이트가 강체 내부 쌍을 셌다(최대 겹침 40 % 상주 → 40–50 % 구간 눈이 멂; `mol` 같고 **양수**인 쌍만 제외) · `MIX-06` `H/R` 이 강한 점착에서 절단됨 — 기전은 `R99/R_d = 0.97 ± 0.002` 로 **드럼이 R 을 고정**해 `H/R ≡ H`. 절단 없는 2차 축 `core_frac` 을 §14-2 로 **런 전 등록**.
+- 잡은 결함: `MIX-05` 접촉 유효성 게이트가 강체 내부 쌍을 셌다(최대 겹침 40 % 상주 → 40–50 % 구간 눈이 멂; `mol` 같고 **양수**인 쌍만 제외) · `MIX-06` `H/R` 이 강한 응집력에서 절단됨 — 기전은 `R99/R_d = 0.97 ± 0.002` 로 **드럼이 R 을 고정**해 `H/R ≡ H`. 절단 없는 2차 축 `core_frac` 을 §14-2 로 **런 전 등록**.
 - ⚠ 이 단계까지는 전부 **유동성/응집성 축**이다(뒤의 v0.3 참조).

diff --git a/docs/mixer_devlog/v05_20260920.md b/docs/mixer_devlog/v05_20260920.md
@@ -1,16 +1,16 @@
 # v0.5 — 자기리뷰: 축은 맞았고 순서가 틀렸다 (2026-09-20)
 
-> 리뷰 8건 중 7건 성립. "섞이나"와 "장비가 뭔가"를 **먼저** 물었으면 128팔이 믹싱 지수를 같이 냈고 배플 12팔은 없었다.
+> 리뷰 8건 중 7건 성립. "혼합되는가"와 "실제 장비가 무엇인가"를 **먼저** 물었으면 128팔이 혼합지수를 같이 냈고 배플 12팔은 없었다.
 
 ## 쉬운 판
 
 지금까지의 방향을 스스로 비판해 봤다. 결론: 유동성 → 전이 → 장비 비교 → 코팅 판정의 사슬은 서 있지만,
-**질문의 순서가 틀렸다**. 처음에 "섞이나"를 잴 수 있게(층으로 넣고 시작) 설계했으면 지금까지 돌린
-모든 팔이 믹싱 지수도 같이 냈을 것이고, 실제 장비를 처음에 물었으면 드럼용 배플 실험 12개는 안 했을 것이다.
+**질문의 순서가 틀렸다**. 처음에 혼합도를 잴 수 있게(층상 투입으로 시작) 설계했으면 지금까지 돌린
+모든 팔이 혼합지수도 같이 냈을 것이고, 실제 장비를 처음에 물었으면 드럼용 배플 실험 12개는 안 했을 것이다.
 리뷰가 자기 자신도 잡았다 — 새 지표라며 제안한 것이 하루 전에 이미 기각된 지표였다.
 
 ## 자세한 판
 
-- 성립: R-1 관측량 순서(절반) · R-2 장비 미확인 · R-3 §22-5 가 §22-4 의 두-벌 규칙을 어김(정정) · **R-4 `Bo` 정의 차이**(우리는 평형겹침 인력/무게, 문헌은 JKR pull-off/무게 — 환산 불가, 앵커 행에만 O(1) 표지, `MIX-07` 추기) · R-5 단조성은 약한 검정(§21-1 하향) · R-6 경계 0.5 는 충전율 9.8 %·Fr 0.083 한 점(`MIX-10`) · R-7 시드 3 "쌍안정" 과독 · R-8 명령 전달 실수.
+- 성립: R-1 관측량 순서(절반) · R-2 장비 미확인 · R-3 §22-5 가 §22-4 의 두-기준 규칙을 어김(정정) · **R-4 `Bo` 정의 차이**(우리는 평형겹침 인력/무게, 문헌은 JKR pull-off/무게 — 환산 불가, 앵커 행에만 O(1) 표지, `MIX-07` 추기) · R-5 단조성은 약한 검정(§21-1 하향) · R-6 전이점 0.5 는 충전율 9.8 %·Fr 0.083 한 점(`MIX-10`) · R-7 시드 3 "쌍안정" 과독 · R-8 명령 전달 실수.
 - 탐색(결론 아님): AM 접촉 짝 조성 AA/AS 는 Bo 0→1 에서 0.24–0.27 로 평평, E4 만 ×1.36 ⇒ H/R 전이는 AM 탈혼합이 아니라 **침대 전체의 플러그화**.
-- PTFE·VGCF 물성 실태: 영률 1e7·마찰 0.5·반발 0.3·구름마찰 0.2 가 **전 상 공통**, 점착은 Bo 규칙, 강체 3구 사슬(VGCF 종횡비 ≈2.6 vs 실제 ≈67). ⇒ 이 모델에서 두 첨가제는 **수동 필러**. PTFE 피브릴화는 LIGGGHTS 강체로 원리적 불가(LAMMPS 결합 사슬 = 보고 뒤 병행 트랙).
+- PTFE·VGCF 물성 실태: 영률 1e7·마찰 0.5·반발 0.3·구름마찰 0.2 가 **전 상 공통**, 응집력은 Bo 규칙, 강체 3구 사슬(VGCF 종횡비 ≈2.6 vs 실제 ≈67). ⇒ 이 모델에서 두 첨가제는 **수동 필러**. PTFE 피브릴화는 LIGGGHTS 강체로 원리적 불가(LAMMPS 결합 사슬 = 보고 뒤 병행 트랙).

diff --git a/docs/mixer_devlog/v08_20260921.md b/docs/mixer_devlog/v08_20260921.md
@@ -1,0 +1,23 @@
+# v0.8 — 용어를 필드 규약으로 통일 + 주간보고 요약 그림 (2026-09-21)
+
+> 모델·수치는 그대로. "끈적함 / 덩어리 / 눈금" 을 **van der Waals 응집력 · 응집체 · 평가 셀**로 바꾸고, 교수님 보고용 요약 그림(a·b·c)을 얹었다.
+
+## 쉬운 판
+
+이 페이지의 쉬운 판까지 포함해 표현을 필드 용어로 통일했다. 응집의 기원은 **van der Waals 분산력**이고(정본 §19),
+모델에서는 SJKR 접촉 부착력으로 표현하며, 크기는 Bond 수 `Bo = 응집력 / 입자 무게` 로 문헌 앵커에 건다
+(hare2026 NMC622, Bo ≈ 3). 코팅은 AM 표면 물성을 SE 로 치환하는 것이라 Bo 0.02 로 떨어진다.
+
+요약 그림: (a) 코팅 전 AM(Bo 21)은 응집체가 드럼과 함께 강체 회전, (b) SE 코팅(Bo 0.02)은 자유 유동,
+(c) 층상 투입 후 8 rev 의 Lacey 혼합지수 — 평가 셀을 입자 스케일로 조이면 무코팅만 응집체가 남는다.
+
+<figure><img src="/static/mixer/summary_v08.png" alt="믹서 요약 (a)(b)(c)"><figcaption>(a) E4 · (b) C1 침대 횡단면(60 rpm) · (c) §25 셀 사다리 3팔×3시드 (오차막대 = 시드 sd). 수치는 v0.7 과 동일.</figcaption></figure>
+
+## 자세한 판
+
+- 용어 대응: 끈적함 → **응집력(van der Waals 기원 부착력, SJKR)** · 덩어리 → **응집체(agglomerate)/플러그** · 흐른다 → **자유 유동** · 섞이나 → **혼합도(Lacey M)** · 눈금/칸 → **평가 셀**. 정본 §19 의 규약(2026-09-20, 1저자 지시 *"끈적이라는 얘기를 없애고 반데르발스로 접근"*)을 웹 페이지에도 적용.
+- 물리 근거: 건조 세라믹 분말의 응집 = vdW 분산력(모세관력은 드라이룸에서 억제, 정전기는 정량 곤란). `γ ≈ A/(24π z₀²)`. LIGGGHTS-PUBLIC 엔 JKR 이 없어 SJKR(`F = CED·A`)이며 γ 를 직접 넣지 못한다 ⇒ 앵커는 Bo 로만 (`MIX-07`: Bo 정의가 문헌 JKR pull-off 와 달라 O(1)).
+- 코팅 배수: 앵커 Bo 3.0 → 0.0235 = 1/128, E4 Bo 21.2 → 1/900 (§22-5 의 두 기준).
+- 그림 출처: `docs/figures/mixer_summary_20260920.png` — 침대 그림은 v0.2·v0.3 과 같은 프레임, 막대는 §26 의 3시드 판정값.
+- 그림 정정: v0.4 의 `ladder_HR_vs_Bo.png` 는 두 패널이 x 축을 공유해 위 패널의 로그축이 선형으로 덮여 점들이 왼쪽에 뭉쳐 있었다(표시 결함, 수치 무관) — 축을 분리해 다시 그렸다. `mixing_v07.png` 는 라벨만 필드 용어로 바꿨다.
+- 바뀌지 않은 것: 수치 · 판정 · 한정어(저-G 드럼 · PTFE/VGCF 수동 필러 · Bo 정의 O(1) · 절대 M 은 셀 간 비교 불가).
